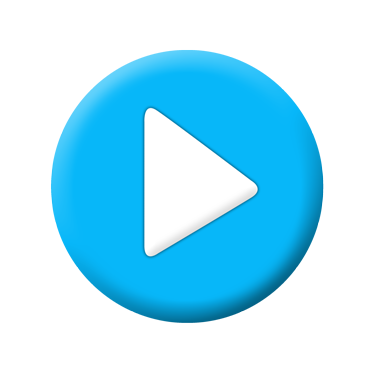
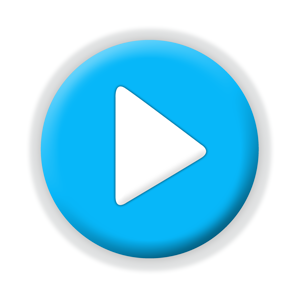
new MainMenu design

Changed region(s): [[0.09, 0.09, 0.9, 0.9]]

diff --git a/Classes/Scenes/MainScene.cpp b/Classes/Scenes/MainScene.cpp
@@ -38,25 +38,52 @@ MainScene* MainScene::create()
 }
 bool MainScene::init()
 {
-//    if (!CCLayer::init() )
-//    {
-//        return false;
-
-//    }
-    if (!CCLayerColor::initWithColor(ccc4(231, 232, 232, 255)))
+    if (!CCLayer::init() )
     {
         return false;
+
     }
+//    if (!CCLayerColor::initWithColor(ccc4(231, 232, 232, 255)))
+//    {
+//        return false;
+//    }
 
     //Get the screen start of cordinates
     const CCPoint ORIGIN = Screen::getOrigin();
     const CCSize VISIBLE_SIZE = Screen::getVisibleSize();
 
+
+    //Load one piece
+    CCSprite* sp_noise = CCSprite::create("main-menu/back.png");
+
+    //Take the texture from sprite
+    CCTexture2D *texture = sp_noise->getTexture();
+
+    //Set parameters GL_MIRRORED_REPEAT mean that texture should repeat one time mirrored other time not
+    ccTexParams params = {GL_LINEAR, GL_LINEAR, GL_MIRRORED_REPEAT, GL_MIRRORED_REPEAT};
+    texture->setTexParameters(&params);
+
+    //Final sprite
+    CCSprite *noise = CCSprite::createWithTexture(texture, CCRectMake(0, 0, VISIBLE_SIZE.width, VISIBLE_SIZE.height));
+    noise->setPosition(ccp(ORIGIN.x +  VISIBLE_SIZE.width/2,
+                           ORIGIN.y + VISIBLE_SIZE.height/2));
+    this->addChild(noise);
+
+
+    //downer background
     CCSprite* background = CCSprite::create("main-menu/background.png");
     background->setPosition(ccp(ORIGIN.x +  VISIBLE_SIZE.width/2,
-                                ORIGIN.y + VISIBLE_SIZE.height/2));
+                                ORIGIN.y /*+ VISIBLE_SIZE.height/2*/));
     this->addChild(background);
 
+    //upper background
+    CCSprite* background_upper = CCSprite::create("main-menu/background.png");
+    background_upper->setPosition(ccp(ORIGIN.x +  VISIBLE_SIZE.width/2,
+                                ORIGIN.y + VISIBLE_SIZE.height));
+    background_upper->setFlipY(true);
+    this->addChild(background_upper);
+
+    //game logo
     CCSprite* main_logo = CCSprite::create("main-menu/main-logo.png");
     main_logo->setPosition(ccp(ORIGIN.x + VISIBLE_SIZE.width*0.5,
                           ORIGIN.y + VISIBLE_SIZE.height*0.75));
@@ -91,7 +118,7 @@ bool MainScene::init()
     settings_button->addChild(settings_logo);
 
     CCPoint position_settings(VISIBLE_SIZE.width*0.78,
-                              VISIBLE_SIZE.height*0.105);
+                              VISIBLE_SIZE.height*0.16);
     settings_button->setPosition(position_settings);
     settings_logo->setPosition(ccp(settings_logo->getContentSize().width/2,
                                settings_logo->getContentSize().height/2));

diff --git a/Classes/Scenes/MainScene.h b/Classes/Scenes/MainScene.h
@@ -3,7 +3,7 @@
 #include "cocos2d-A.h"
 #include "Layers/PopUpWindow.h"
 
-class MainScene: public CCLayerColor//CCLayer
+class MainScene: public /*CCLayerColor*/ CCLayer
 {
 public:
     MainScene();
